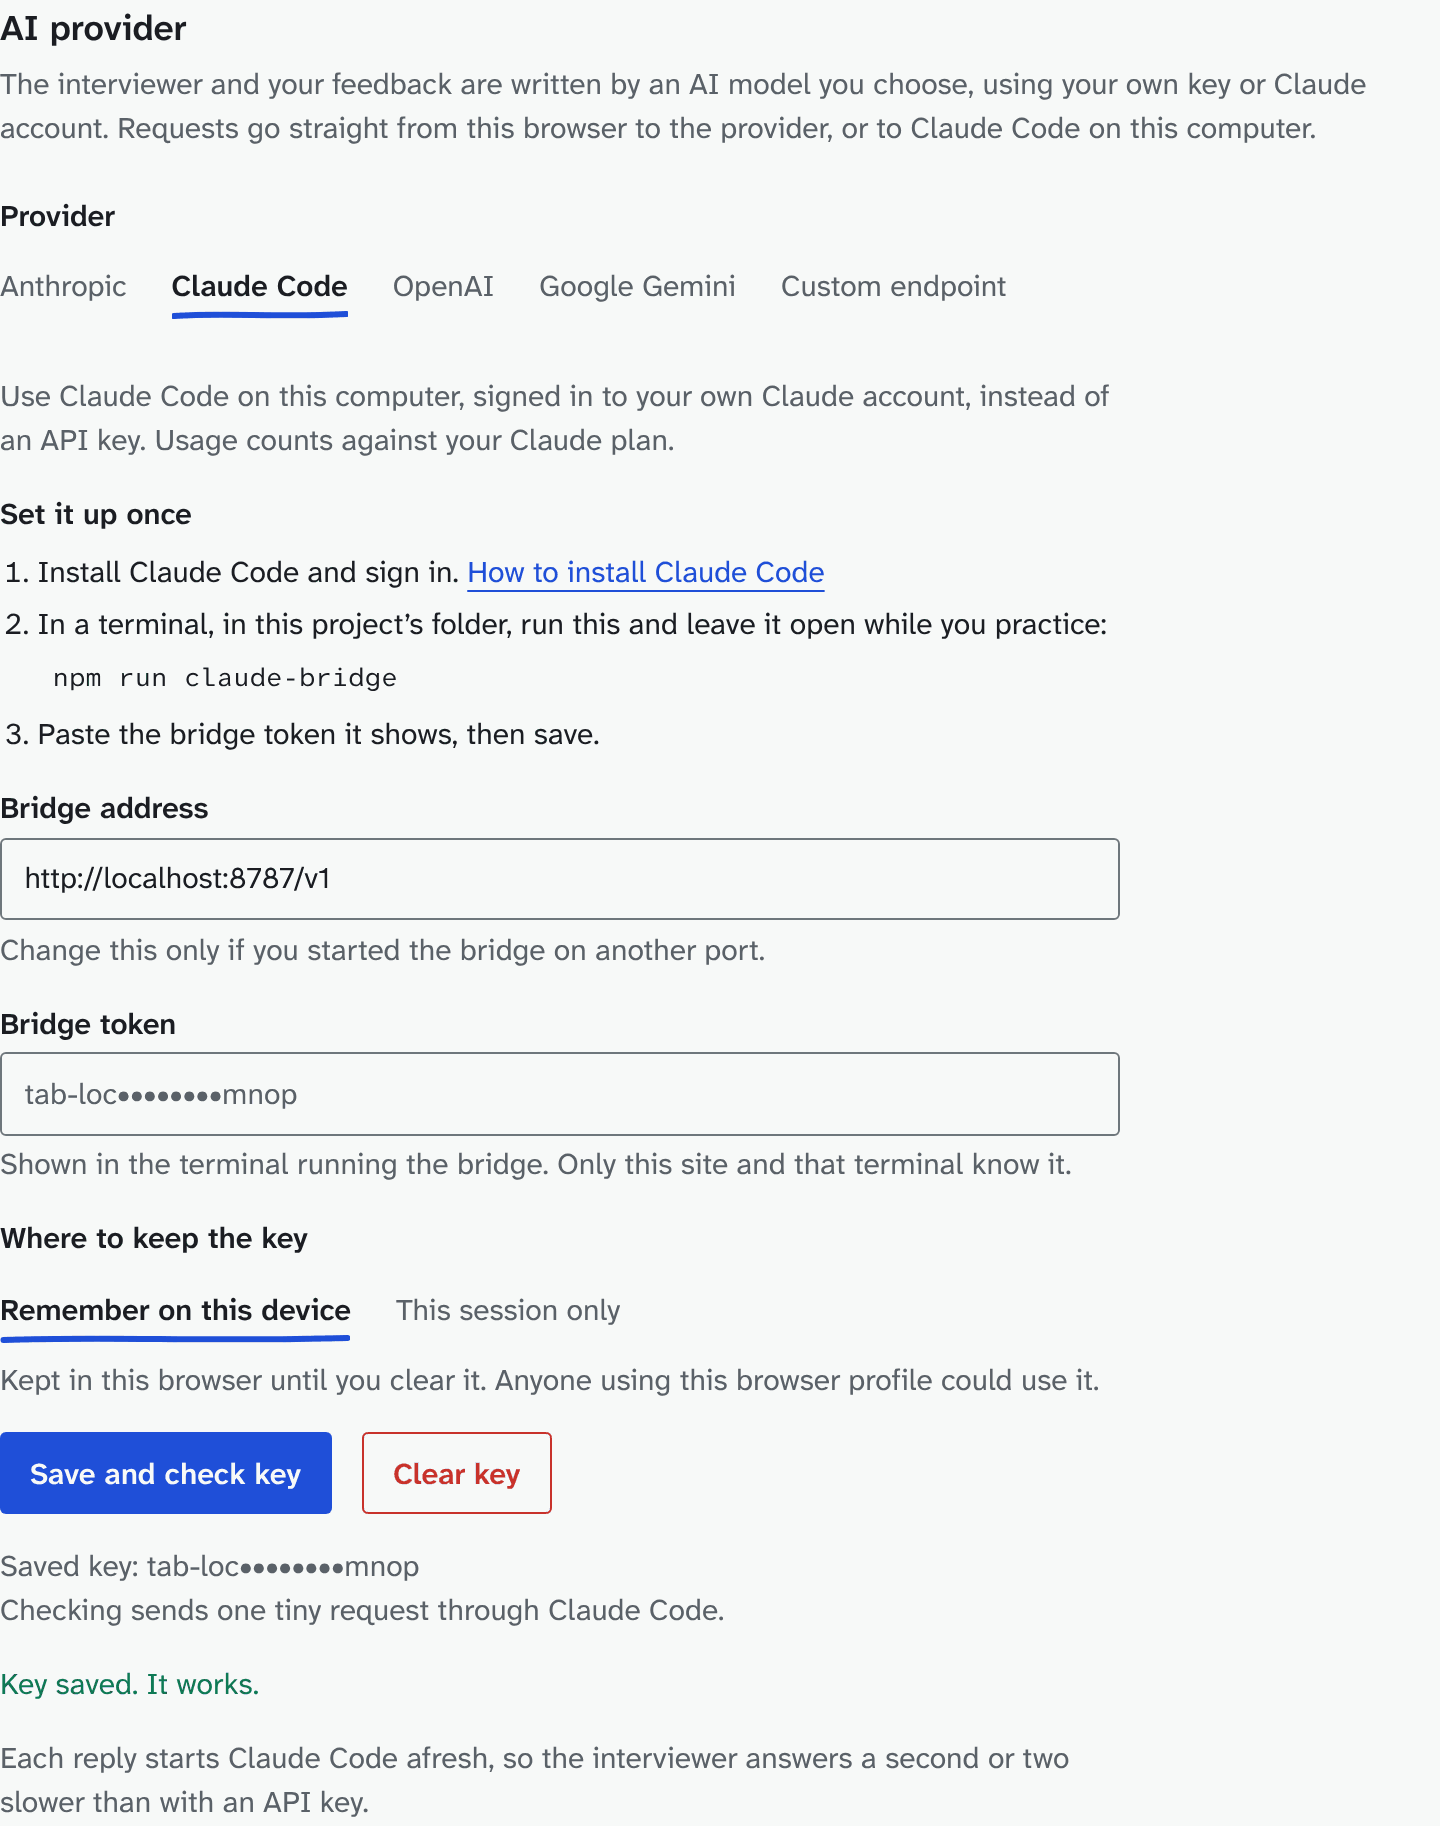
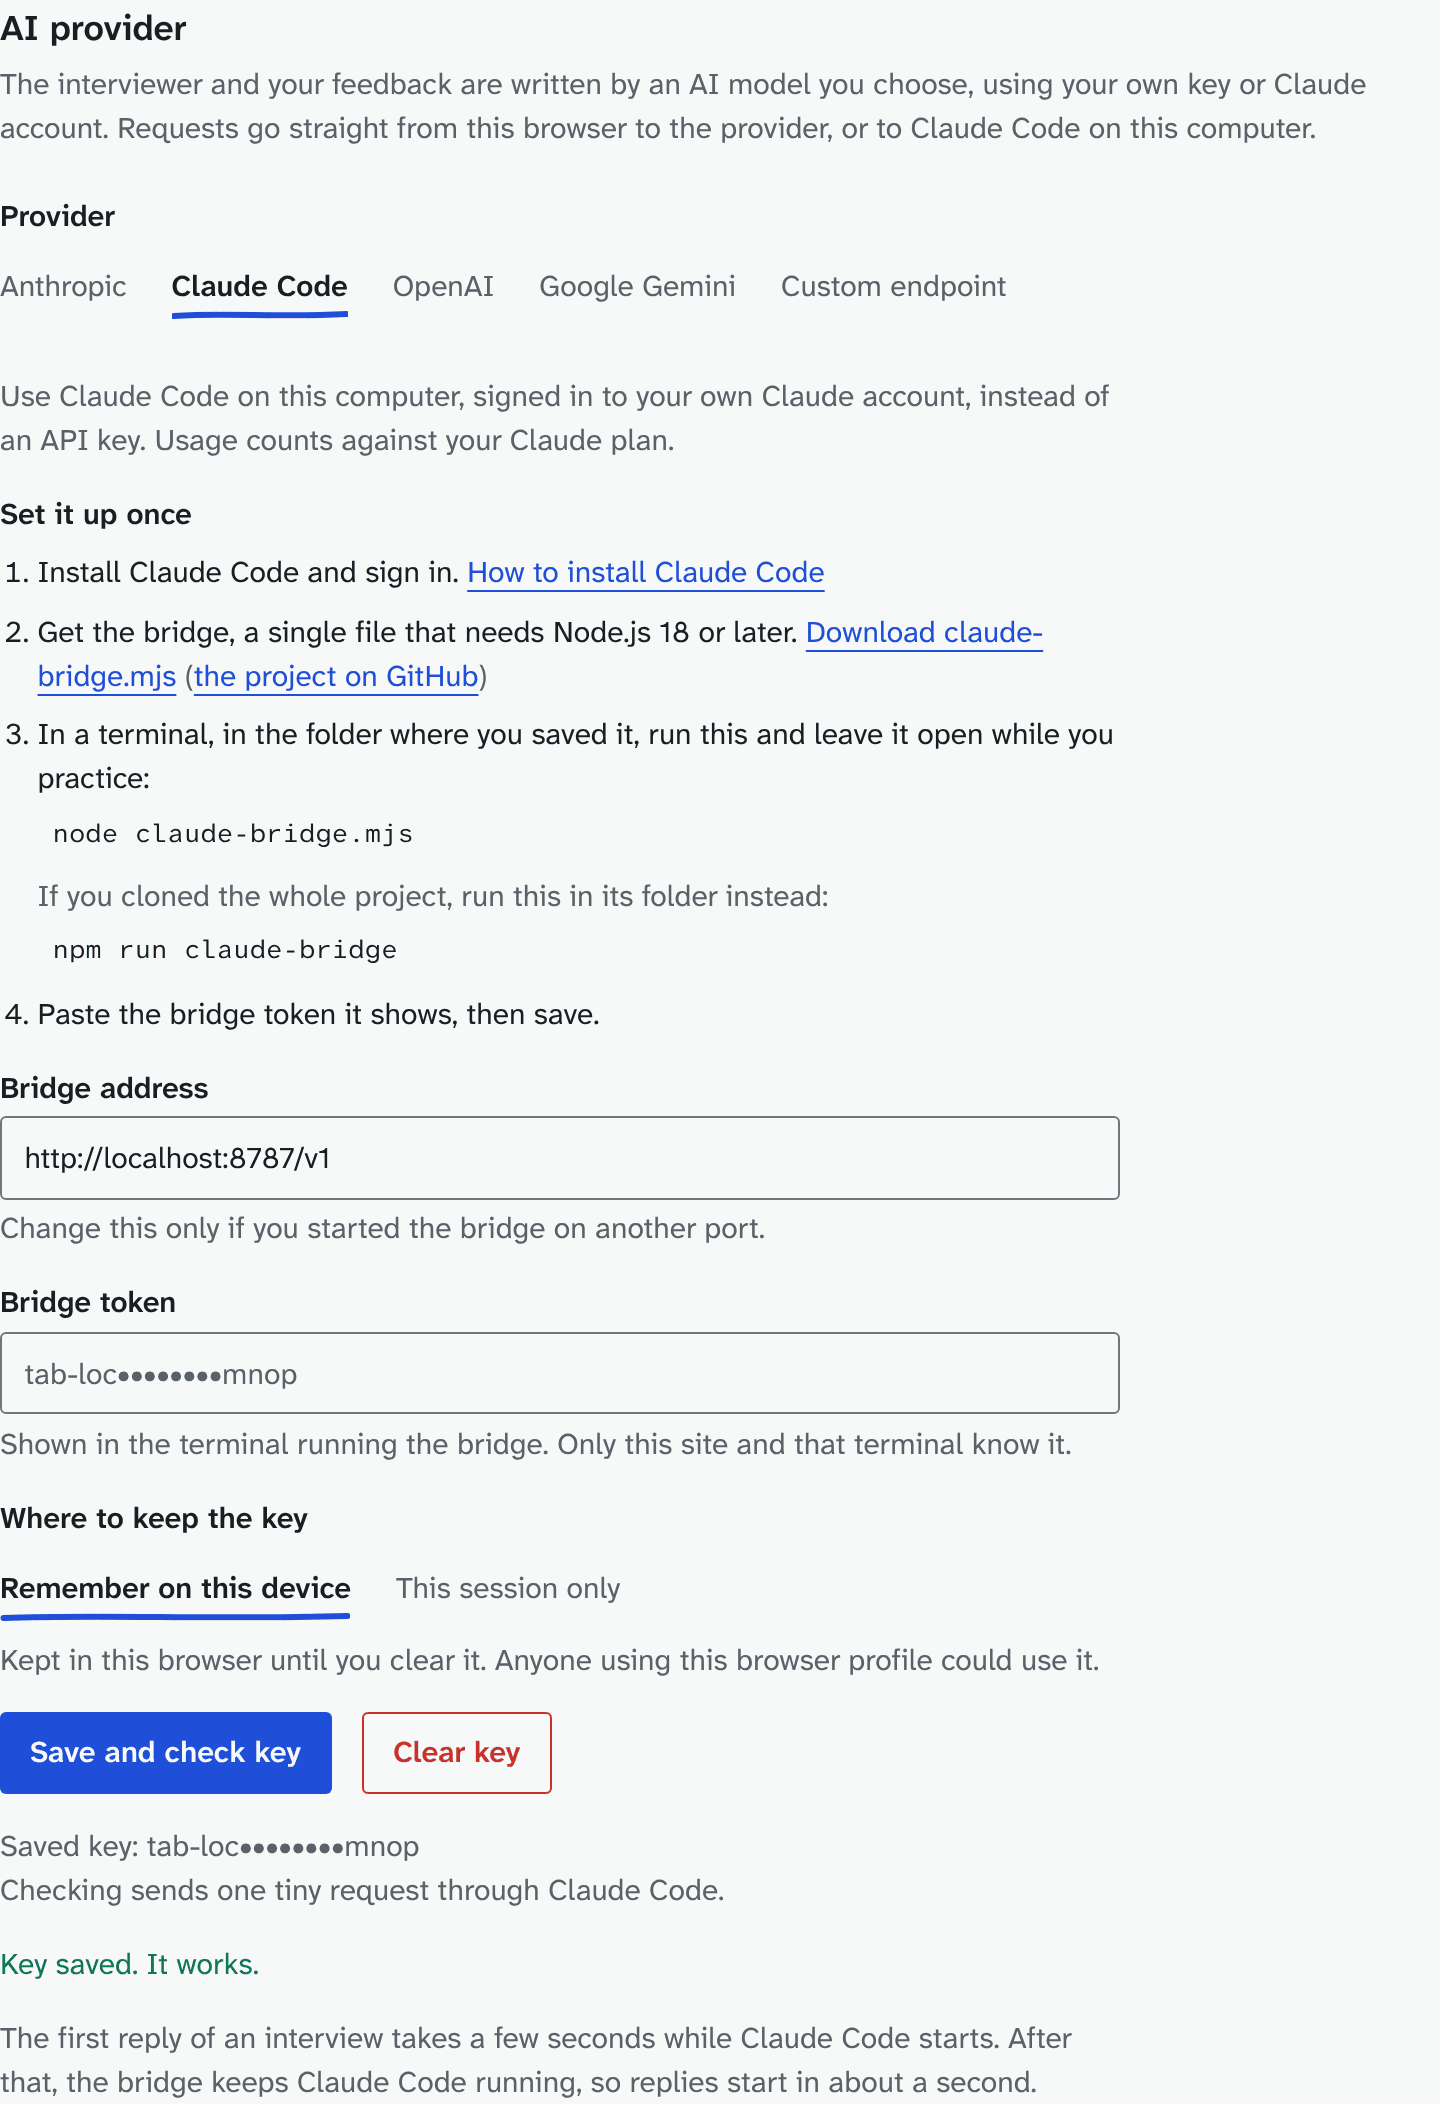
Link to the bridge file and the repository from Settings
People using the hosted site don't have the project on their computer.
The Claude Code setup steps now link to scripts/claude-bridge.mjs (one
file, no dependencies) and to the repository, and show the command to run
it on its own, with --origin for this site when it isn't the local dev
or preview server. The README explains both ways to get the bridge.

Claude-Session: https://claude.ai/code/session_012hVuGovY9PMCJy71Mqdcuz

Changed region(s): [[0.0, 0.0, 0.9375, 0.9989], [0.75, 0.5619, 0.7812, 0.5931]]

diff --git a/src/screens/settings/AiSection.tsx b/src/screens/settings/AiSection.tsx
@@ -12,6 +12,7 @@ import { Button } from '../../ui/Button';
 import { ExternalLink } from '../../ui/ExternalLink';
 import { CompatibleProvider } from '../../lib/ai/compatible';
 import { claudeCode } from '../../config/providers/claudeCode';
+import { BRIDGE_DEFAULT_ORIGINS, BRIDGE_FILE_URL, REPO_URL } from '../../config/app';
 
 /** Providers whose adapters are built. The rest appear as they are added. */
 export const AVAILABLE_PROVIDERS: ProviderId[] = ['anthropic', 'claude-code', 'openai', 'gemini', 'custom'];
@@ -226,20 +227,32 @@ function CustomEndpoint() {
 function ClaudeCodeBridge() {
   const settings = useSettings();
   const c = copy.claudeCode;
+  // The bridge only answers sites it knows. Anywhere but the local dev and
+  // preview servers, the command includes this site's address.
+  const origin = BRIDGE_DEFAULT_ORIGINS.includes(window.location.origin) ? null : window.location.origin;
   return (
     <div className="flex max-w-[560px] flex-col gap-4">
       <p className="text-sm text-ink-soft">{c.intro}</p>
       <div className="flex flex-col gap-2">
         <h3 className="text-sm font-semibold">{c.stepsHeading}</h3>
-        <ol className="m-0 flex list-decimal flex-col gap-1 pl-5 text-sm">
+        <ol className="m-0 flex list-decimal flex-col gap-2 pl-5 text-sm">
           <li>
             {c.steps[0]} <ExternalLink href={claudeCode.keyUrl}>{c.install}</ExternalLink>
           </li>
           <li>
-            {c.steps[1]}
-            <pre className="mt-1 mb-0 w-fit rounded-[3px] bg-paper px-2 py-1 font-mono text-xs">{c.command}</pre>
+            {c.steps[1]} <ExternalLink href={BRIDGE_FILE_URL}>{c.downloadBridge}</ExternalLink>
+            <span className="text-ink-soft">
+              {' '}
+              (<ExternalLink href={REPO_URL}>{c.repo}</ExternalLink>)
+            </span>
           </li>
-          <li>{c.steps[2]}</li>
+          <li>
+            {c.steps[2]}
+            <pre className="mt-1 mb-0 w-fit max-w-full overflow-x-auto rounded-[3px] bg-paper px-2 py-1 font-mono text-xs">{c.command(origin)}</pre>
+            <span className="mt-2 block text-ink-soft">{c.projectCommandIntro}</span>
+            <pre className="mt-1 mb-0 w-fit max-w-full overflow-x-auto rounded-[3px] bg-paper px-2 py-1 font-mono text-xs">{c.projectCommand(origin)}</pre>
+          </li>
+          <li>{c.steps[3]}</li>
         </ol>
       </div>
       <TextField label={c.url} help={c.urlHelp} value={settings.claudeCodeUrl} onChange={(e) => updateSettings({ claudeCodeUrl: e.target.value.trim() })} />

diff --git a/src/copy/strings.ts b/src/copy/strings.ts
@@ -415,17 +415,22 @@ export const ai = {
     stepsHeading: 'Set it up once',
     steps: [
       'Install Claude Code and sign in.',
-      'In a terminal, in this project’s folder, run this and leave it open while you practice:',
+      'Get the bridge, a single file that needs Node.js 18 or later.',
+      'In a terminal, in the folder where you saved it, run this and leave it open while you practice:',
       'Paste the bridge token it shows, then save.',
     ],
-    command: 'npm run claude-bridge',
+    downloadBridge: 'Download claude-bridge.mjs',
+    repo: 'the project on GitHub',
+    projectCommandIntro: 'If you cloned the whole project, run this in its folder instead:',
+    command: (origin: string | null) => `node claude-bridge.mjs${origin ? ` --origin ${origin}` : ''}`,
+    projectCommand: (origin: string | null) => `npm run claude-bridge${origin ? ` -- --origin ${origin}` : ''}`,
     install: 'How to install Claude Code',
     url: 'Bridge address',
     urlHelp: 'Change this only if you started the bridge on another port.',
     token: 'Bridge token',
     tokenHelp: 'Shown in the terminal running the bridge. Only this site and that terminal know it.',
     checkCost: 'Checking sends one tiny request through Claude Code.',
-    notRunning: 'Couldn’t reach the bridge. Check that npm run claude-bridge is running, then try again.',
+    notRunning: 'Couldn’t reach the bridge. Check that it’s running in a terminal, then try again.',
     slower: 'The first reply of an interview takes a few seconds while Claude Code starts. After that, the bridge keeps Claude Code running, so replies start in about a second.',
   },
   keyLabel: (provider: string) => `${provider} API key`,

diff --git a/src/config/app.ts b/src/config/app.ts
@@ -9,3 +9,9 @@ export const DEFAULT_SESSION_MINUTES = 45;
 
 /** Repository link shown in the footer and README. */
 export const REPO_URL = 'https://github.com/piyush-v-patil/think-aloud';
+
+/** The Claude Code bridge: one file, linked from Settings so people using the hosted site can get it. */
+export const BRIDGE_FILE_URL = `${REPO_URL}/blob/main/scripts/claude-bridge.mjs`;
+
+/** Sites the bridge allows without --origin (the Vite dev and preview servers). */
+export const BRIDGE_DEFAULT_ORIGINS = ['http://localhost:5173', 'http://127.0.0.1:5173', 'http://localhost:4173', 'http://127.0.0.1:4173'];

diff --git a/README.md b/README.md
@@ -218,18 +218,33 @@ and signed in, Think Aloud can use it instead of an API key. Usage counts
 against your Claude plan's limits. This is meant for your own practice with
 your own account.
 
-```bash
-npm run claude-bridge
-```
+The app can't start programs on your computer, so a small bridge does it.
+Get the bridge one of two ways:
 
-That starts a small bridge on `http://localhost:8787` and prints a bridge
-token. In **Settings → AI provider**, choose **Claude Code**, paste the
-token, and press **Save and check key**. Keep the terminal open while you
-practice. Running the app with `npm run dev` is the most reliable way. Your
-GitHub Pages site can reach the bridge too, though your browser may ask for
+- **Using the hosted site** (<https://piyush-v-patil.github.io/Think-aloud/>)?
+  You don't need the whole project. Download the single file
+  [`scripts/claude-bridge.mjs`](https://github.com/piyush-v-patil/think-aloud/blob/main/scripts/claude-bridge.mjs)
+  from this repository, and run it with Node.js 18 or later:
+
+  ```bash
+  node claude-bridge.mjs --origin https://piyush-v-patil.github.io
+  ```
+
+- **Running the app yourself** from a clone of
+  [this repository](https://github.com/piyush-v-patil/think-aloud):
+
+  ```bash
+  npm run claude-bridge
+  ```
+
+The bridge starts on `http://localhost:8787` and prints a bridge token. In
+**Settings → AI provider**, choose **Claude Code**, paste the token, and
+press **Save and check key**. Keep the terminal open while you practice.
+Settings shows the exact command for the site you're on, with links to the
+file and the repository. From the hosted site, your browser may ask for
 permission to connect to devices on your local network.
 
-<img src="docs/screenshots/claude-code.png" alt="Settings with Claude Code chosen as the AI provider: three setup steps, the npm run claude-bridge command, the bridge address and the bridge token, with 'Key saved. It works.'" width="560">
+<img src="docs/screenshots/claude-code.png" alt="Settings with Claude Code chosen as the AI provider: four setup steps with a link to download the bridge file and to the project on GitHub, the commands to run it, the bridge address and the bridge token, with 'Key saved. It works.'" width="560">
 
 How the bridge stays safe and private:
 
